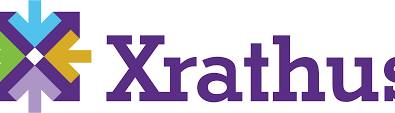
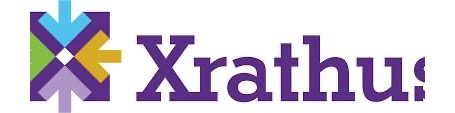
layout changes

diff --git a/src/app/page.tsx b/src/app/page.tsx
@@ -224,14 +224,14 @@ function PartnerLogo() {
 
   if (!imageFailed) {
     return (
-      <div className="flex min-h-24 w-full max-w-sm items-center justify-center rounded-2xl border border-slate-200 bg-white p-6">
+      <div className="flex min-h-20 w-full items-center justify-center rounded-2xl border border-slate-200 bg-white p-4">
         <Image
           src={partner.logoSrc}
           alt={`${partner.name} logo`}
-          width={395}
+          width={455}
           height={113}
-          className="h-auto max-h-16 w-auto max-w-full object-contain"
-          sizes="(min-width: 1024px) 320px, 100vw"
+          className="h-auto max-h-14 w-auto max-w-full object-contain"
+          sizes="(min-width: 1024px) 260px, 100vw"
           onError={() => setImageFailed(true)}
         />
       </div>
@@ -239,7 +239,7 @@ function PartnerLogo() {
   }
 
   return (
-    <div className="flex min-h-24 w-full max-w-sm items-center justify-center rounded-2xl border border-slate-200 bg-white p-5 text-3xl font-bold text-purple-800">
+    <div className="flex min-h-20 w-full items-center justify-center rounded-2xl border border-slate-200 bg-white p-4 text-2xl font-bold text-purple-800">
       {partner.name}
     </div>
   );
@@ -759,9 +759,9 @@ function PublicHomePage() {
                   CASPO is being built by student leaders who know how much work it takes to keep
                   organizations moving.
                 </p>
-                <div className="mx-auto mt-8 grid w-full max-w-5xl gap-8 md:grid-cols-2">
+                <div className="mt-8 grid gap-5 md:grid-cols-2 lg:grid-cols-3">
                   {teamMembers.map(member => (
-                    <div key={member.name}>
+                    <div key={member.name} className="rounded-2xl border border-slate-200 bg-white p-5 shadow-sm">
                       <div className="mx-auto w-full max-w-xs overflow-hidden rounded-2xl border border-slate-200 bg-white shadow-sm">
                         <TeamMemberAvatar member={member} />
                       </div>
@@ -772,20 +772,18 @@ function PublicHomePage() {
                       </div>
                     </div>
                   ))}
-                </div>
-                <div className="mt-8 rounded-3xl border border-emerald-900/10 bg-white p-6 shadow-sm sm:p-8">
-                  <p className="text-sm font-semibold uppercase text-emerald-700">Official Partner</p>
-                  <div className="mt-4 flex flex-col gap-6 lg:flex-row lg:items-center lg:justify-between">
-                    <div className="max-w-2xl">
-                      <h2 className="text-2xl font-bold sm:text-3xl">
-                        Officially partnered with {partner.name}
-                      </h2>
-                      <p className="mt-3 leading-7 text-slate-600">
-                        CASPO is officially partnered with Xrathus DXP as we build a stronger,
-                        smarter operating system for student organizations.
-                      </p>
+                  <div className="rounded-2xl border border-emerald-900/10 bg-white p-5 shadow-sm">
+                    <p className="text-sm font-semibold uppercase text-emerald-700">Official Partner</p>
+                    <h2 className="mt-4 text-2xl font-bold text-slate-950">
+                      Officially partnered with {partner.name}
+                    </h2>
+                    <p className="mt-3 leading-7 text-slate-600">
+                      CASPO is officially partnered with Xrathus DXP as we build a stronger,
+                      smarter operating system for student organizations.
+                    </p>
+                    <div className="mt-6">
+                      <PartnerLogo />
                     </div>
-                    <PartnerLogo />
                   </div>
                 </div>
               </div>
